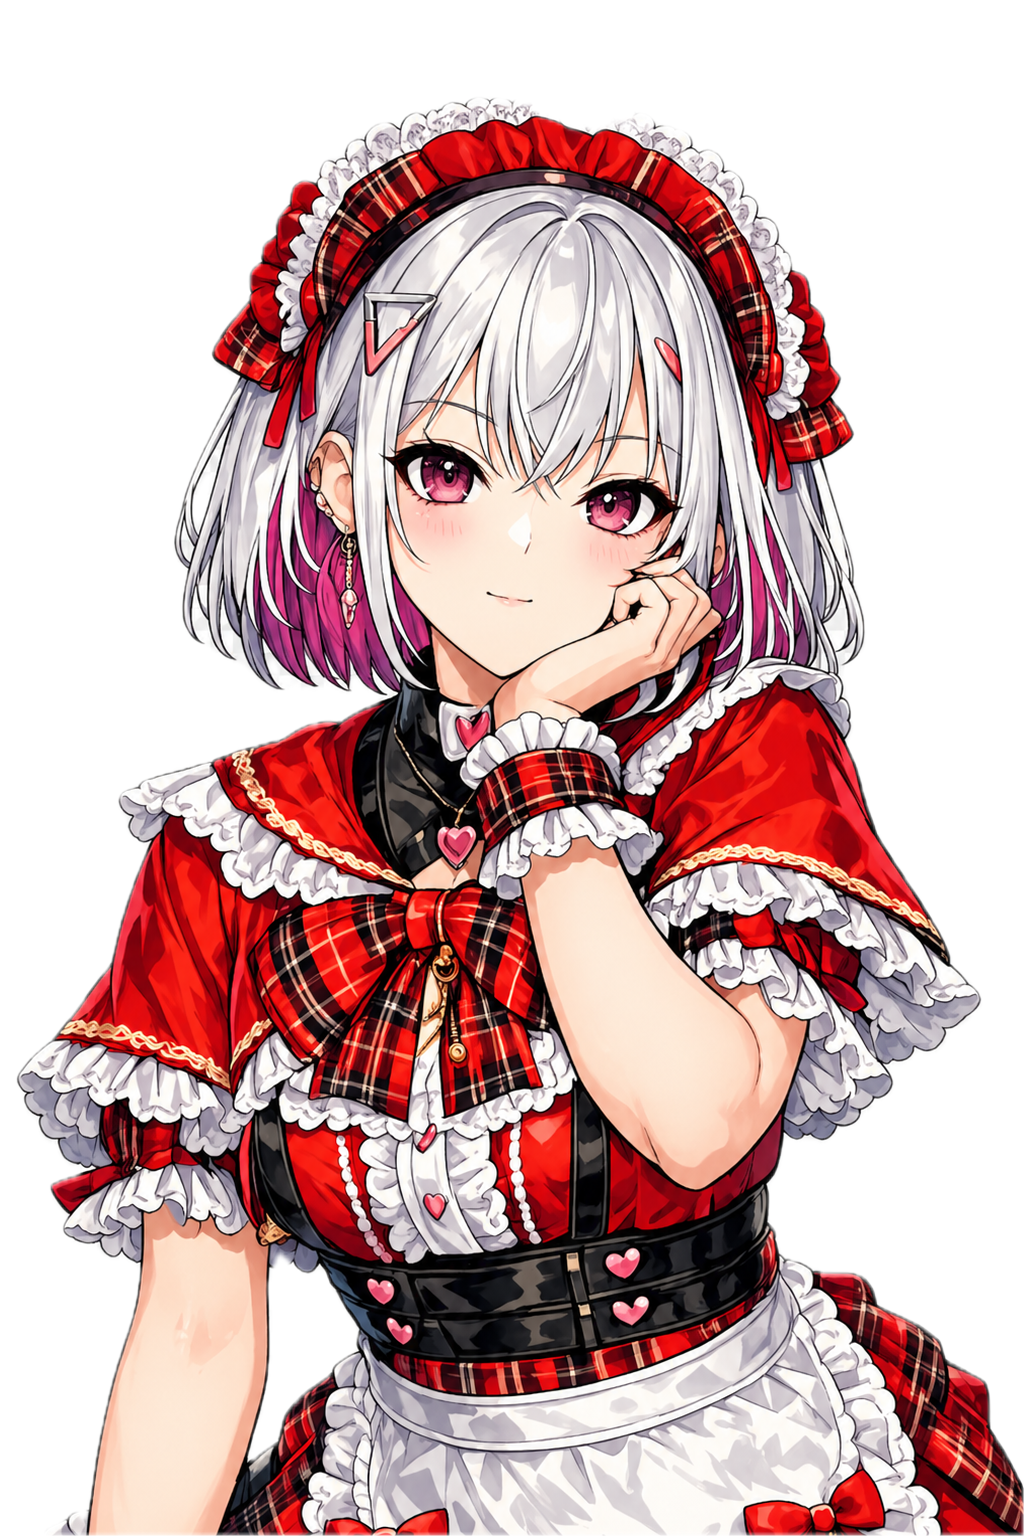
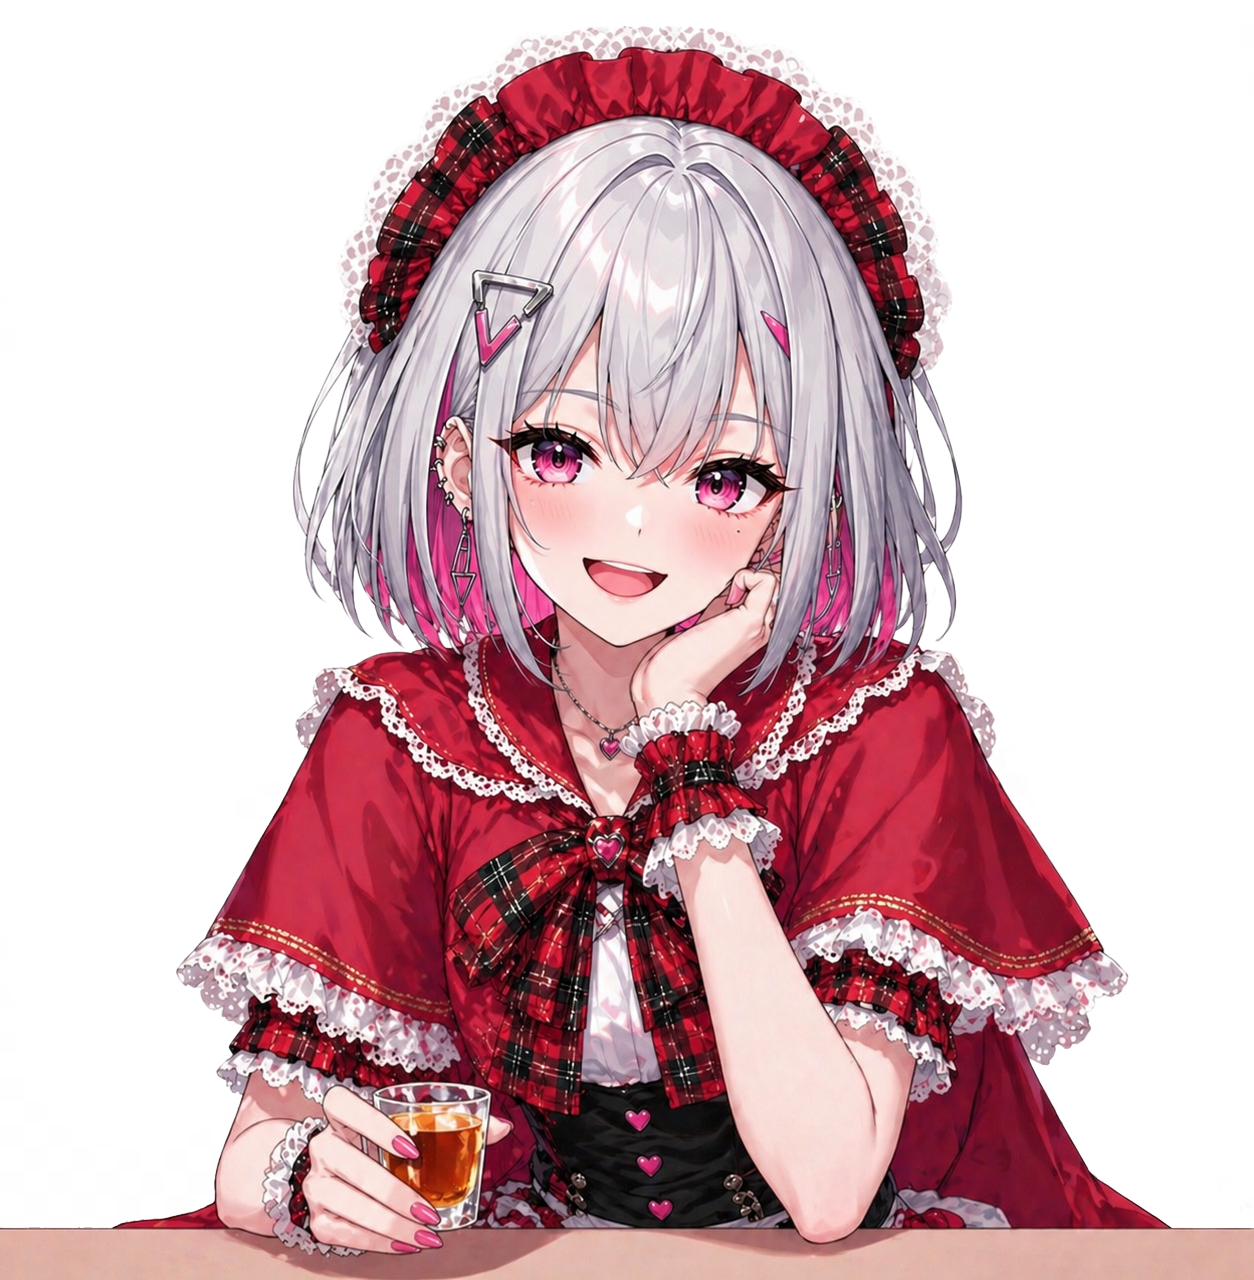
feat: dynamic character expression switching with 6 expression images
Add character expression system driven by tell type, turn outcome,
and gauge state. Preloads all images at init for instant switching.

Expression images (assets/*.png):
  tuzyou  → default/neutral
  utagai  → doubt (glass tell, sus rising)
  bikkuri → surprised (excite tell, fake×watch reveal)
  horoyoi → tipsy/happy (playful tell, mood rising)
  fuman   → dissatisfied (vibe killed, mood dropping)
  deisui  → very drunk (drunk gauge >= 50)

Switching rules:
  TELL_PHASE  — tell type drives expression
  RESOLVE     — faceFromDeltas() reacts to turn outcome
  TURN_START  — faceFromGauges() reflects accumulated gauge state

diff --git a/card-mode.js b/card-mode.js
@@ -19,6 +19,16 @@ const CARDS = {
 };
 const CARD_IDS = ['toast', 'fake', 'watch', 'chaser'];
 
+// ── Character expression images ──
+const CHAR_IMAGES = {
+  tuzyou:  'assets/tuzyou.png',   // 通常
+  utagai:  'assets/utagai.png',   // 疑い
+  bikkuri: 'assets/bikkuri.png',  // びっくり
+  horoyoi: 'assets/horoyoi.png',  // ほろ酔い
+  fuman:   'assets/fuman.png',    // 不満
+  deisui:  'assets/deisui.png',   // 泥酔
+};
+
 // ── Card artwork map (ware_=player, aite_=milk) ──
 const CARD_IMAGES = {
   player: {
@@ -114,6 +124,40 @@ function actLabel(turn) {
   if (turn <= 7) return 'ACT 2 / 本番';
   if (turn <= 9) return 'ACT 3 / ラスト';
   return 'FINAL';
+}
+
+// ── Character face ──
+function setCharFace(exprKey) {
+  const charEl = $('character');
+  const imgEl  = $('char-art');
+  // data-face drives CSS aura; exprKey is now the direct image key
+  const faceMap = { tuzyou:'normal', utagai:'doubt', bikkuri:'smile', horoyoi:'mood', fuman:'normal', deisui:'normal' };
+  if (charEl) charEl.dataset.face = faceMap[exprKey] || 'normal';
+  const src = CHAR_IMAGES[exprKey];
+  if (imgEl && src && imgEl.src !== new URL(src, document.baseURI).href) {
+    imgEl.src = src;
+  }
+}
+
+// Pick expression from current gauge values (called at TURN_START)
+function faceFromGauges() {
+  const g = state.gauges;
+  if (g.drunk >= 50)     return 'deisui';
+  if (g.sus   >= 70)     return 'utagai';
+  if (g.tens  <= 20)     return 'fuman';
+  if (g.mood  >= 50)     return 'horoyoi';
+  return 'tuzyou';
+}
+
+// Pick reaction expression from this turn's deltas (called in RESOLVE)
+function faceFromDeltas(deltas, playerCard, milkCard) {
+  if (playerCard === 'watch' && milkCard === 'fake') return 'bikkuri'; // player caught milk's fake
+  if (playerCard === 'fake'  && milkCard === 'watch') return 'bikkuri'; // both surprised at reveal
+  if (deltas.M >= 6)   return 'horoyoi';  // みるくノリ上昇
+  if (deltas.T <= -10) return 'fuman';    // 空気が冷えた
+  if (deltas.S >= 15)  return 'utagai';   // 疑惑上昇
+  if (deltas.M < 0)    return 'fuman';    // みるくノリ下降
+  return 'tuzyou';
 }
 
 // ── Utility ──
@@ -252,10 +296,9 @@ function enterTell() {
     hint.hidden = false;
   }
 
-  // みるく表情をテルに連動
-  const FACE_OF = { glass:'doubt', excite:'smile', bored:'normal', playful:'mood' };
-  const charEl = $('character');
-  if (charEl) charEl.dataset.face = FACE_OF[state.tell.type] || 'normal';
+  // みるく表情をテルに連動（実画像ファイルで切替）
+  const EXPR_OF = { glass:'utagai', excite:'bikkuri', bored:'tuzyou', playful:'horoyoi' };
+  setCharFace(EXPR_OF[state.tell.type] || 'tuzyou');
 
   setTimeout(() => {
     if (state.fsm === 'TELL_PHASE') setState('CARD_SELECT');
@@ -447,6 +490,9 @@ function enterResolve() {
 
   updateHUD();
 
+  // みるくの表情をターン結果に反応させる
+  setCharFace(faceFromDeltas(deltas, state.playerCard, state.milkCard));
+
   // Hide reveal cards halfway through (guard: don't touch DOM if FSM moved on)
   const resolveTurn = state.turn;
   setTimeout(() => { if (state.turn === resolveTurn) clearReveal(); }, REVEAL_HOLD_MS * 0.6);
@@ -470,7 +516,8 @@ function enterTurnEnd() {
   // 10 turns survived
   if (state.turn >= MAX_TURNS)   { state.endReason = 'survive'; return setState('RESULT'); }
 
-  // Continue
+  // Continue — update face to reflect current gauge state before next tell
+  setCharFace(faceFromGauges());
   state.turn++;
   setState('TURN_START');
 }
@@ -721,8 +768,20 @@ function showToast(msg) {
   toastTimer = setTimeout(() => el.classList.remove('show'), 2000);
 }
 
+// ── Preload all images for instant switching ──
+function preloadImages() {
+  const srcs = [
+    ...Object.values(CHAR_IMAGES),
+    ...Object.values(CARD_IMAGES.player),
+    ...Object.values(CARD_IMAGES.milk),
+  ];
+  srcs.forEach(src => { const i = new Image(); i.src = src; });
+}
+
 // ── Init ──
 function init() {
+  preloadImages();
+
   // Mark all screens as hidden initially (intro is activated by setState('INTRO'))
   document.querySelectorAll('.screen').forEach(s => {
     s.setAttribute('aria-hidden', 'true');

diff --git a/card-mode.html b/card-mode.html
@@ -93,7 +93,7 @@
       <div class="character-area">
         <div class="character-wrap">
           <div id="character" class="character" data-face="normal">
-            <img class="char-art" src="assets/milk.png" alt="" aria-hidden="true"
+            <img id="char-art" class="char-art" src="assets/tuzyou.png" alt="" aria-hidden="true"
                  onload="this.classList.add('loaded')"
                  onerror="this.dataset.failed='1'">
             <!-- 画像読込失敗時のCSS簡易顔フォールバック -->
